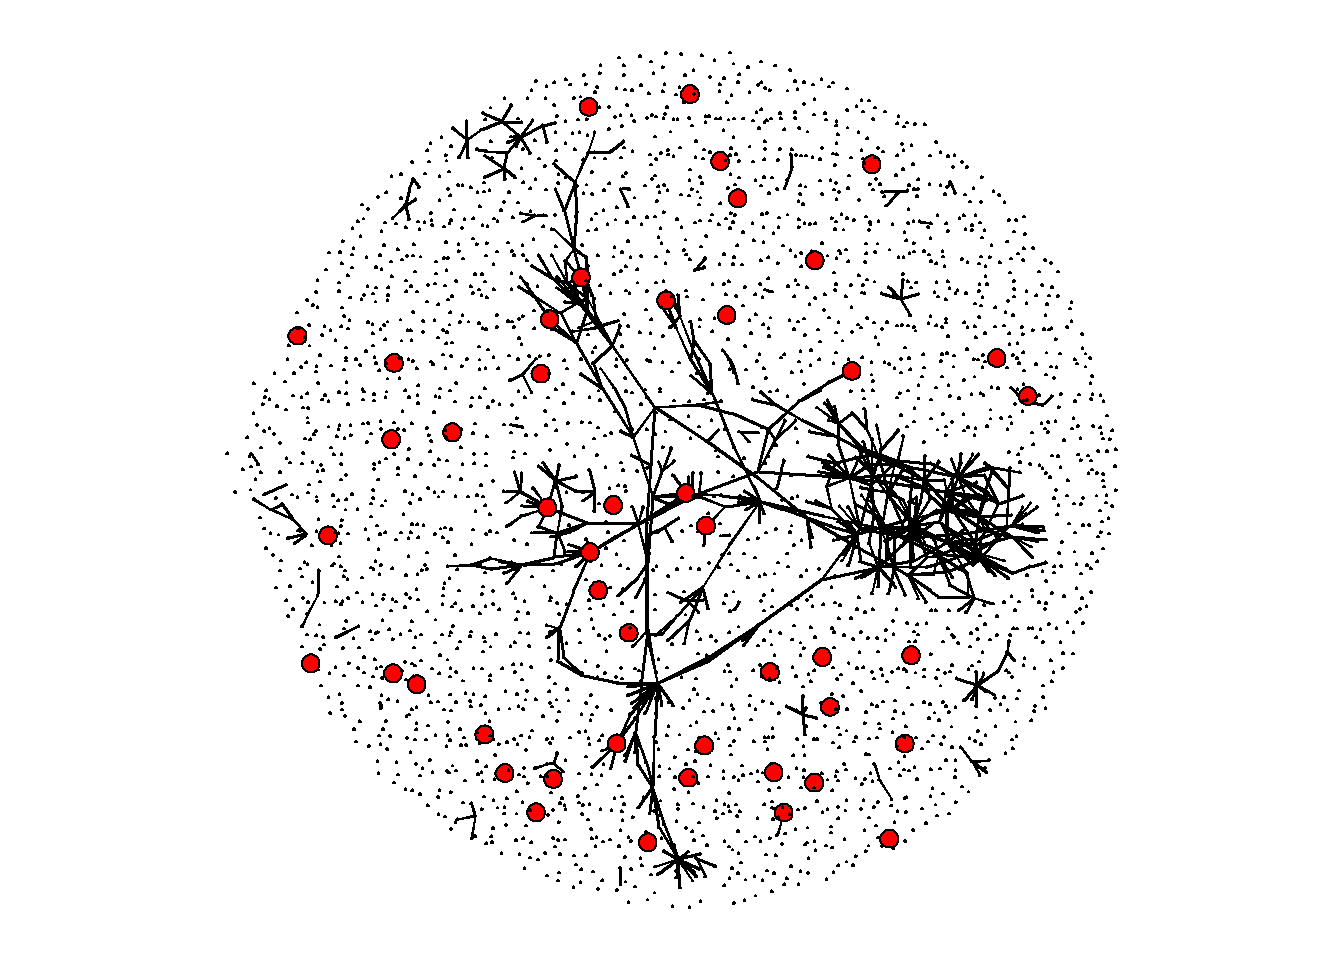
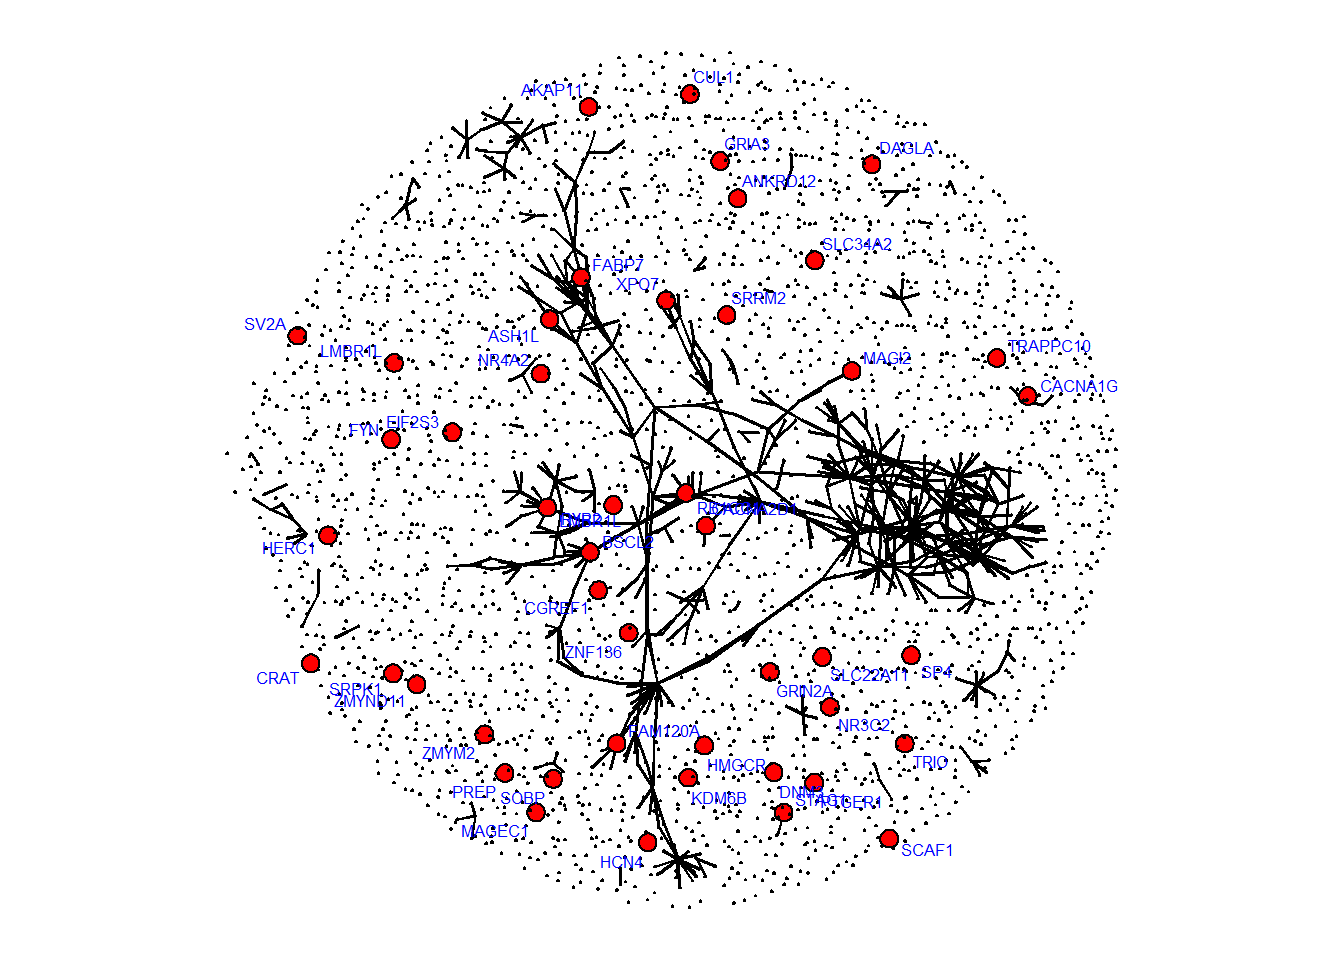
4/29/2024

diff --git a/docs/part4.html b/docs/part4.html
@@ -516,6 +516,9 @@ unnamed-chunk-4
 <li>
 unnamed-chunk-5
 </li>
+<li>
+unnamed-chunk-6
+</li>
 </ul>
 <p>To ensure reproducibility of the results, delete the cache directory
 <code>part4_cache</code> and re-run the analysis. To have workflowr
@@ -585,15 +588,15 @@ data/gene_pfc35_sort_20240425.rds
 <div class="panel panel-default">
 <div class="panel-heading">
 <p class="panel-title">
-<a data-toggle="collapse" data-parent="#workflowr-checks" href="#strongRepositoryversionstrongahrefhttpsgithubcomhan16multiomicstree6f91ee65d1b055cf974209b8f60f478422af8baftargetblank6f91ee6a">
+<a data-toggle="collapse" data-parent="#workflowr-checks" href="#strongRepositoryversionstrongahrefhttpsgithubcomhan16multiomicstreee2afa26a573cbfefc93797d9a63cd6c9ac72cf95targetblanke2afa26a">
 <span class="glyphicon glyphicon-ok text-success"
 aria-hidden="true"></span> <strong>Repository version:</strong>
-<a href="https://github.com/han16/multi_omics/tree/6f91ee65d1b055cf974209b8f60f478422af8baf" target="_blank">6f91ee6</a>
+<a href="https://github.com/han16/multi_omics/tree/e2afa26a573cbfefc93797d9a63cd6c9ac72cf95" target="_blank">e2afa26</a>
 </a>
 </p>
 </div>
 <div
[2 lines of base64/hex data omitted]
 class="panel-collapse collapse">
 <div class="panel-body">
 <p>
@@ -603,7 +606,7 @@ reproducibility.
 </p>
 <p>
 The results in this page were generated with repository version
-<a href="https://github.com/han16/multi_omics/tree/6f91ee65d1b055cf974209b8f60f478422af8baf" target="_blank">6f91ee6</a>.
+<a href="https://github.com/han16/multi_omics/tree/e2afa26a573cbfefc93797d9a63cd6c9ac72cf95" target="_blank">e2afa26</a>.
 See the <em>Past versions</em> tab to see a history of the changes made
 to the R Markdown and HTML files.
 </p>
@@ -628,8 +631,6 @@ Ignored files:
     Ignored:    analysis/part6_cache/
 
 Unstaged changes:
-    Modified:   analysis/SCZ_gene_list.Rmd
-    Modified:   analysis/part3.Rmd
     Modified:   analysis/part4.Rmd
 
 </code></pre>
@@ -675,6 +676,40 @@ Message
 </tr>
 </thead>
 <tbody>
+<tr>
+<td>
+Rmd
+</td>
+<td>
+<a href="https://github.com/han16/multi_omics/blob/e2afa26a573cbfefc93797d9a63cd6c9ac72cf95/analysis/part4.Rmd" target="_blank">e2afa26</a>
+</td>
+<td>
+han
+</td>
+<td>
+2024-04-29
+</td>
+<td>
+4/29/2024
+</td>
+</tr>
+<tr>
+<td>
+html
+</td>
+<td>
+<a href="https://rawcdn.githack.com/han16/multi_omics/e2afa26a573cbfefc93797d9a63cd6c9ac72cf95/docs/part4.html" target="_blank">e2afa26</a>
+</td>
+<td>
+han
+</td>
+<td>
+2024-04-29
+</td>
+<td>
+4/29/2024
+</td>
+</tr>
 <tr>
 <td>
 html
@@ -893,7 +928,53 @@ han
 <li>vertex size is proportional to -log(SCHEMA meta
 pvalue,base=100)</li>
 </ul>
+</div>
+<div id="inferred-network-of-3100-constraint-genes"
+class="section level2">
+<h2>inferred network of 3100 constraint genes</h2>
 <p><img src="figure/part4.Rmd/unnamed-chunk-6-1.png" width="672" style="display: block; margin: auto;" /></p>
+<p>
+<button type="button" class="btn btn-default btn-xs btn-workflowr btn-workflowr-fig" data-toggle="collapse" data-target="#fig-unnamed-chunk-6-1">
+Past versions of unnamed-chunk-6-1.png
+</button>
+</p>
+<div id="fig-unnamed-chunk-6-1" class="collapse">
+<div class="table-responsive">
+<table class="table table-condensed table-hover">
+<thead>
+<tr>
+<th>
+Version
+</th>
+<th>
+Author
+</th>
+<th>
+Date
+</th>
+</tr>
+</thead>
+<tbody>
+<tr>
+<td>
+<a href="https://github.com/han16/multi_omics/blob/e2afa26a573cbfefc93797d9a63cd6c9ac72cf95/docs/figure/part4.Rmd/unnamed-chunk-6-1.png" target="_blank">e2afa26</a>
+</td>
+<td>
+han
+</td>
+<td>
+2024-04-29
+</td>
+</tr>
+</tbody>
+</table>
+</div>
+</div>
+<ul>
+<li>46 DAWN risk genes are highlighted in red and with blue lables<br />
+</li>
+<li>709 edges in total</li>
+</ul>
 <br>
 <p>
 <button type="button" class="btn btn-default btn-workflowr btn-workflowr-sessioninfo" data-toggle="collapse" data-target="#workflowr-sessioninfo" style="display: block;">
